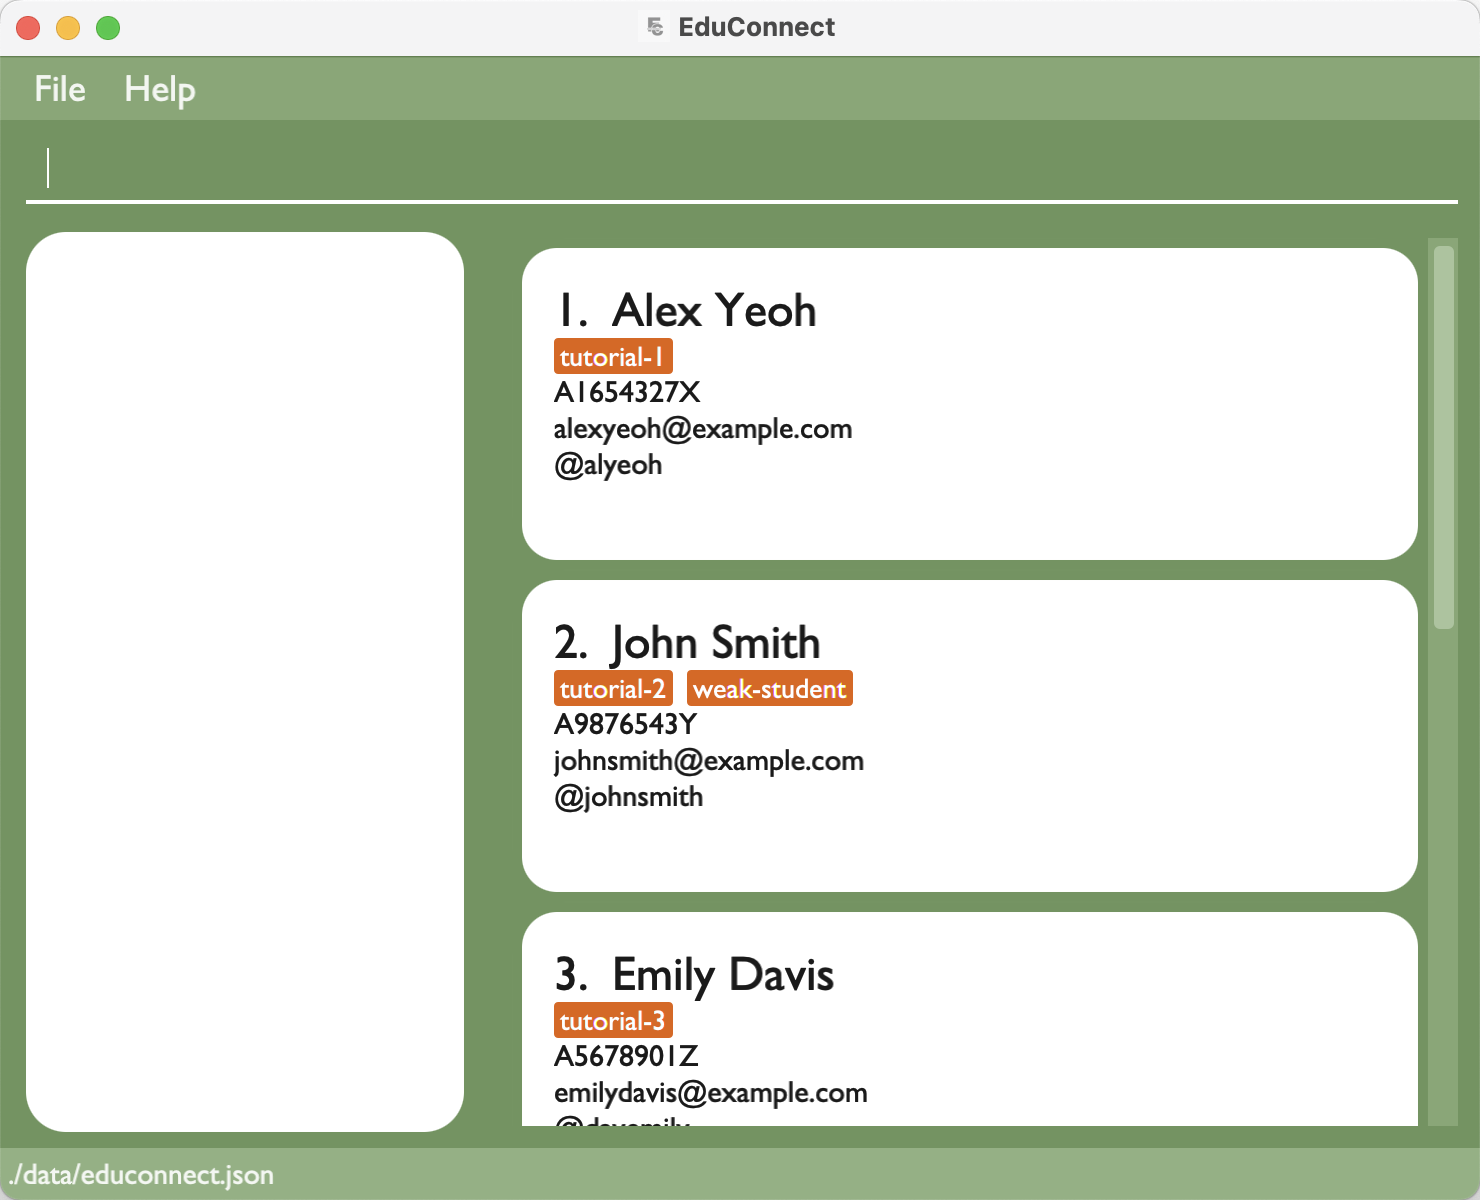
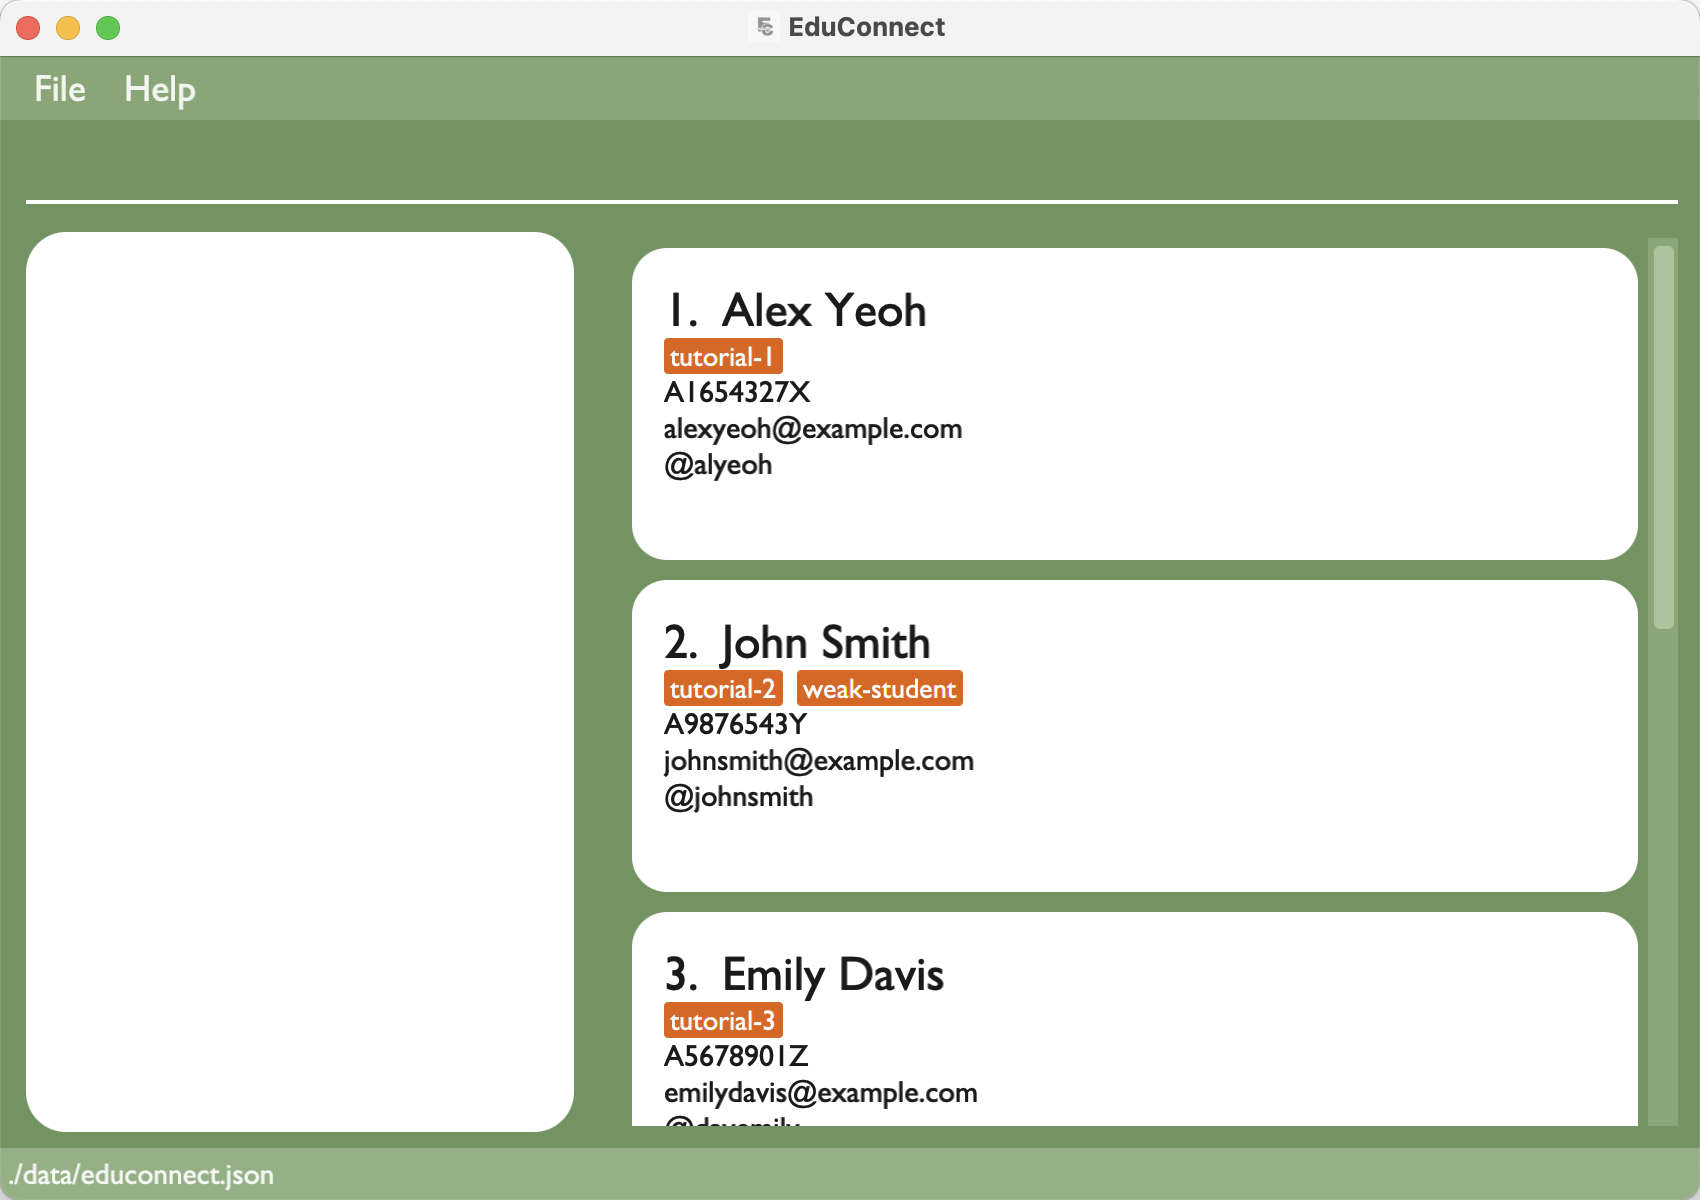
Update UI images for v1.3b user guide

diff --git a/docs/UserGuide.md b/docs/UserGuide.md
@@ -51,7 +51,7 @@ EduConnect is a **desktop app for managing student contacts, optimized for use v
 
    * `add n/John Doe s/A1234567X h/@john.doe e/johnd@example.com t/tutorial-1 t/high-ability` : Adds a contact named `John Doe` to the Address Book.
 
-   * `delete s/A1654327X` : Deletes the person with the `s/STUDENT_ID` unique identifier
+   * `delete s/A0001234A` : Deletes the person with the `s/STUDENT_ID` unique identifier
 
    * `clear` : Deletes all contacts.
 
@@ -122,7 +122,7 @@ Format: `help [COMMAND]`
 
   Examples:
 * `help add`
-![help_add_message](images/helpAddMessage.png)
+![result for 'help_add'](images/helpAdd.png)
 ### Adding a student: `add`
 
 Adds a student.
@@ -142,6 +142,7 @@ Examples:
 * `add n/John Doe s/A1234567X h/@john.doe e/johnd@example.com t/tutorial-1 t/high-ability c/mon: 8-10, 10-12 tue:
   11-13 thu: 12-15, 15-17`
 * `add n/Anne-Marie Rose Nicholson t/singer t/songwriter e/rockabye@friends.uk h/@AnneMarieofficial s/A7041991U`
+  ![result for 'add n/Anne-Marie Rose Nicholson t/singer t/songwriter e/rockabye@friends.uk h/@AnneMarieofficial s/A7041991U'](images/add.png)
 
 ### Listing all students : `list`
 
@@ -149,6 +150,11 @@ Shows a list of all students with the option to show timetables.
 
 Format: `list [timetable]`
 
+**Tip:** The option of displaying timetables will be saved to user preference, and will remain the same unless another `list` command with different option is received
+
+Examples:
+* `list timetable` 
+![result for 'list timetable'](images/listTimetable.png)
 ### Editing a student : `edit`
 
 Edits an existing student.
@@ -166,6 +172,7 @@ Format: `edit INDEX <choose 1 or more> [n/NAME] [s/STUDENT_ID] [e/EMAIL] [h/TELE
 
 Examples:
 *  `edit 1 s/A0001234A e/johndoe@example.com` Edits the student id and email address of the 1st student to be `A0001234A` and `johndoe@example.com` respectively.
+   ![result for 'edit 1 s/A1654327X e/johndoe@example.com'](images/edit.png)
 *  `edit 2 n/Betsy Crower t/` Edits the name of the 2nd student to be `Betsy Crower` and clears all existing tags.
 *  `edit 3 h/@christan c/` Edits the telegram handle and clears the timetable.
 *  `edit 4 c/mon: 8-10, 10-12 tue: 11-13 thu: 12-15, 15-17` Replaces the timetable with this new one according to
@@ -191,9 +198,9 @@ Examples:
 * `find e/yahoo` returns Alex Yeoh and David Li (both uses yahoo email)
 * `find h/john` returns John Doe and John Lee (telegram handle @johnd and @johnlee respectively)
 * `find t/tutorial-1 t/high-ability` returns Samantha (is tagged with BOTH tutorial-1 and high-ability)
-* `find n/john t/tutorial-1` returns John Doe (name contains john and is tagged with tutorial-1)
+* `find n/john t/tutorial-2` returns John Doe (name contains john and is tagged with tutorial-1)
   <br>
-  ![result for 'find John'](images/findJohn.png)
+  ![result for 'find John'](images/find.png)
 
 ### Copying student emails: `copy`
 
@@ -226,14 +233,15 @@ Format: `delete <choose only 1> [s/STUDENT_ID] [e/EMAIL] [h/TELEGRAM_HANDLE]`
 
 Examples:
 * `delete e/royb@gmail.com` deletes a student with an email of `royb@gmail.com` in the address book.
-* `delete s/A1654327X` deletes a student with a student id of `A1654327X` in the address book.
-  ![result for 'find alex', followed by 'delete s/A1654327X'](images/findAndDelete.png)
+* `delete s/A0001234A` deletes a student with a student id of `A0001234A` in the address book.
+  ![result for 'find alex', followed by 'delete s/A0001234A'](images/delete.png)
 
 ### Clearing all students : `clear`
 
 Clears all students.
 
 Format: `clear`
+![result for 'clear'](images/clear.png)
 
 ### Exiting EduConnect : `exit`
 
@@ -280,9 +288,9 @@ _Details coming soon ..._
 Action     | Format, Examples
 -----------|----------------------------------------------------------------------------------------------------------------------------------------------------------------------
 **Add**    | `add n/NAME s/STUDENT_ID e/EMAIL h/TELEGRAM_HANDLE [l/WEBLINK] [c/TIMETABLE] [t/TAG]…` <br> e.g., `add n/James Ho s/A2222444X e/jamesho@example.com h/@hohoho t/struggling t/3rd year c/mon: 8-10, 10-12 tue: 11-13 thu: 12-15, 15-17`
-**Delete** | `delete <choose only 1> [s/STUDENT_ID] [e/EMAIL] [h/TELEGRAM_HANDLE]`<br> e.g., `delete s/A1654327X`
+**Delete** | `delete <choose only 1> [s/STUDENT_ID] [e/EMAIL] [h/TELEGRAM_HANDLE]`<br> e.g., `delete s/A0001234A`
 **Edit**   | `edit INDEX <choose 1 or more> [n/NAME] [s/STUDENT_ID] [e/EMAIL] [h/TELEGRAM_HANDLE] [l/WEBLINK] [c/TIMETABLE] [t/TAG]…`<br> e.g.,`edit 2 n/James Lee e/jameslee@example.com c/mon: 8-10, 10-12 tue: 11-13 thu: 12-15, 15-17`
-**Find**   | `find <choose 1 or more> [n/NAME] [s/STUDENT_ID] [h/TELEGRAM_HANDLE] [t/TAG]…`<br> e.g., `find n/john t/tutorial-1`
+**Find**   | `find <choose 1 or more> [n/NAME] [s/STUDENT_ID] [h/TELEGRAM_HANDLE] [t/TAG]…`<br> e.g., `find n/john t/tutorial-2`
 **Copy**   | `copy [t/TAG]…`<br> e.g. `copy t/tutorial-2`
 **List**   | `list`<br> `list timetable`
 **Help**   | `help [COMMAND]`
